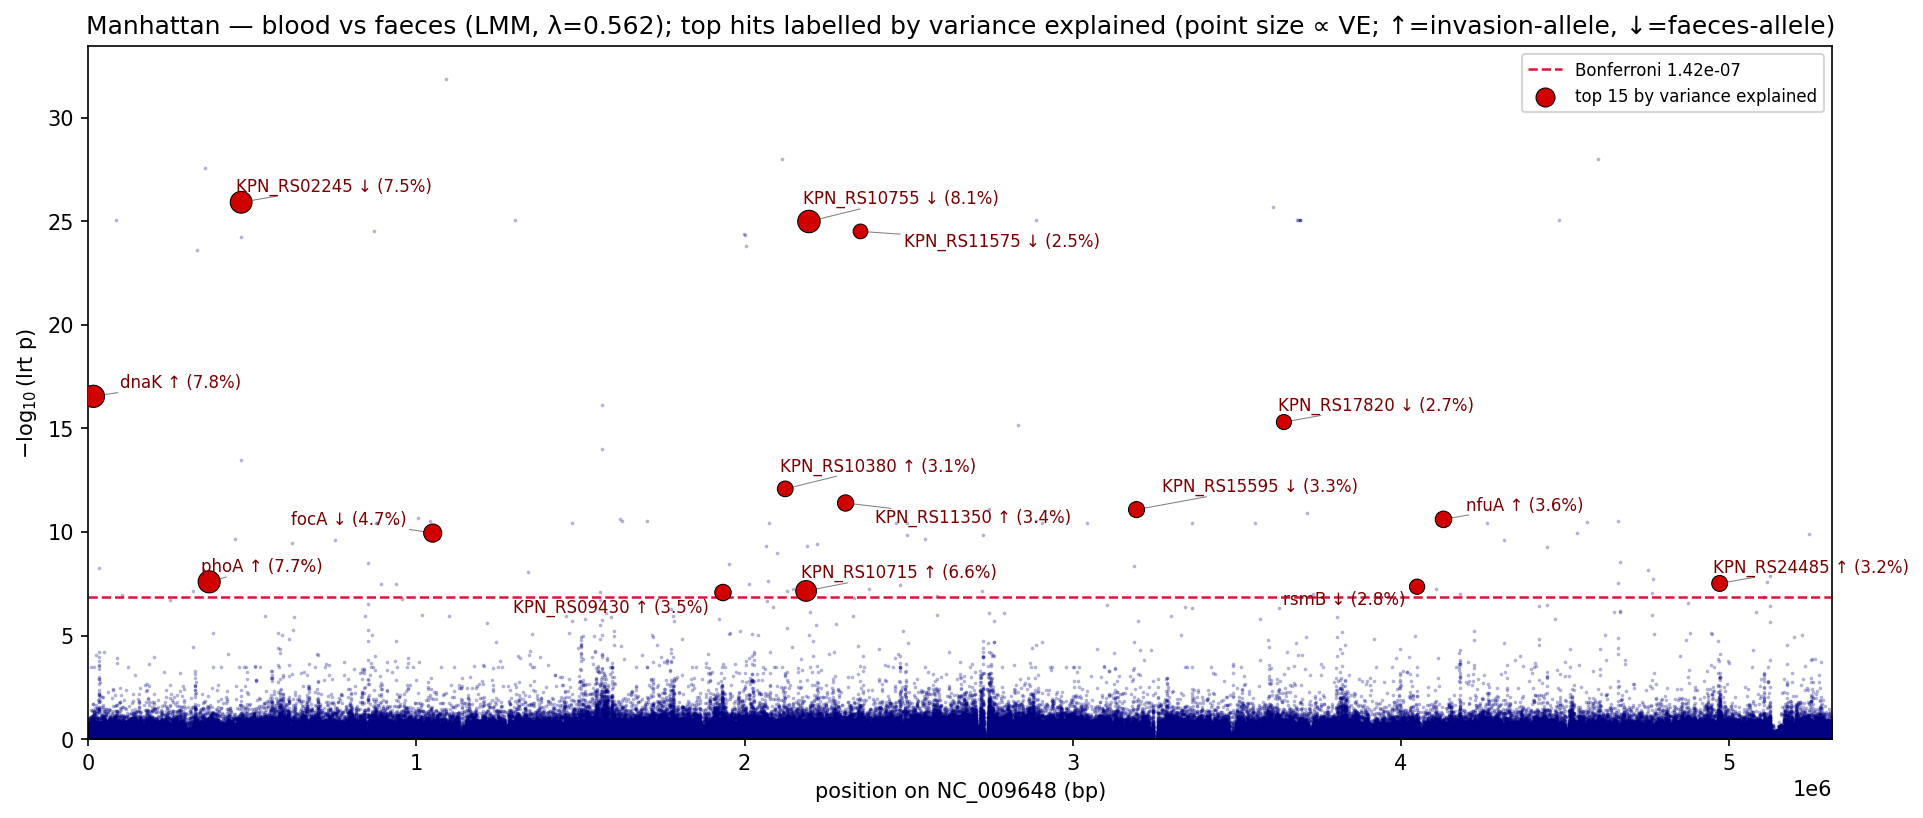
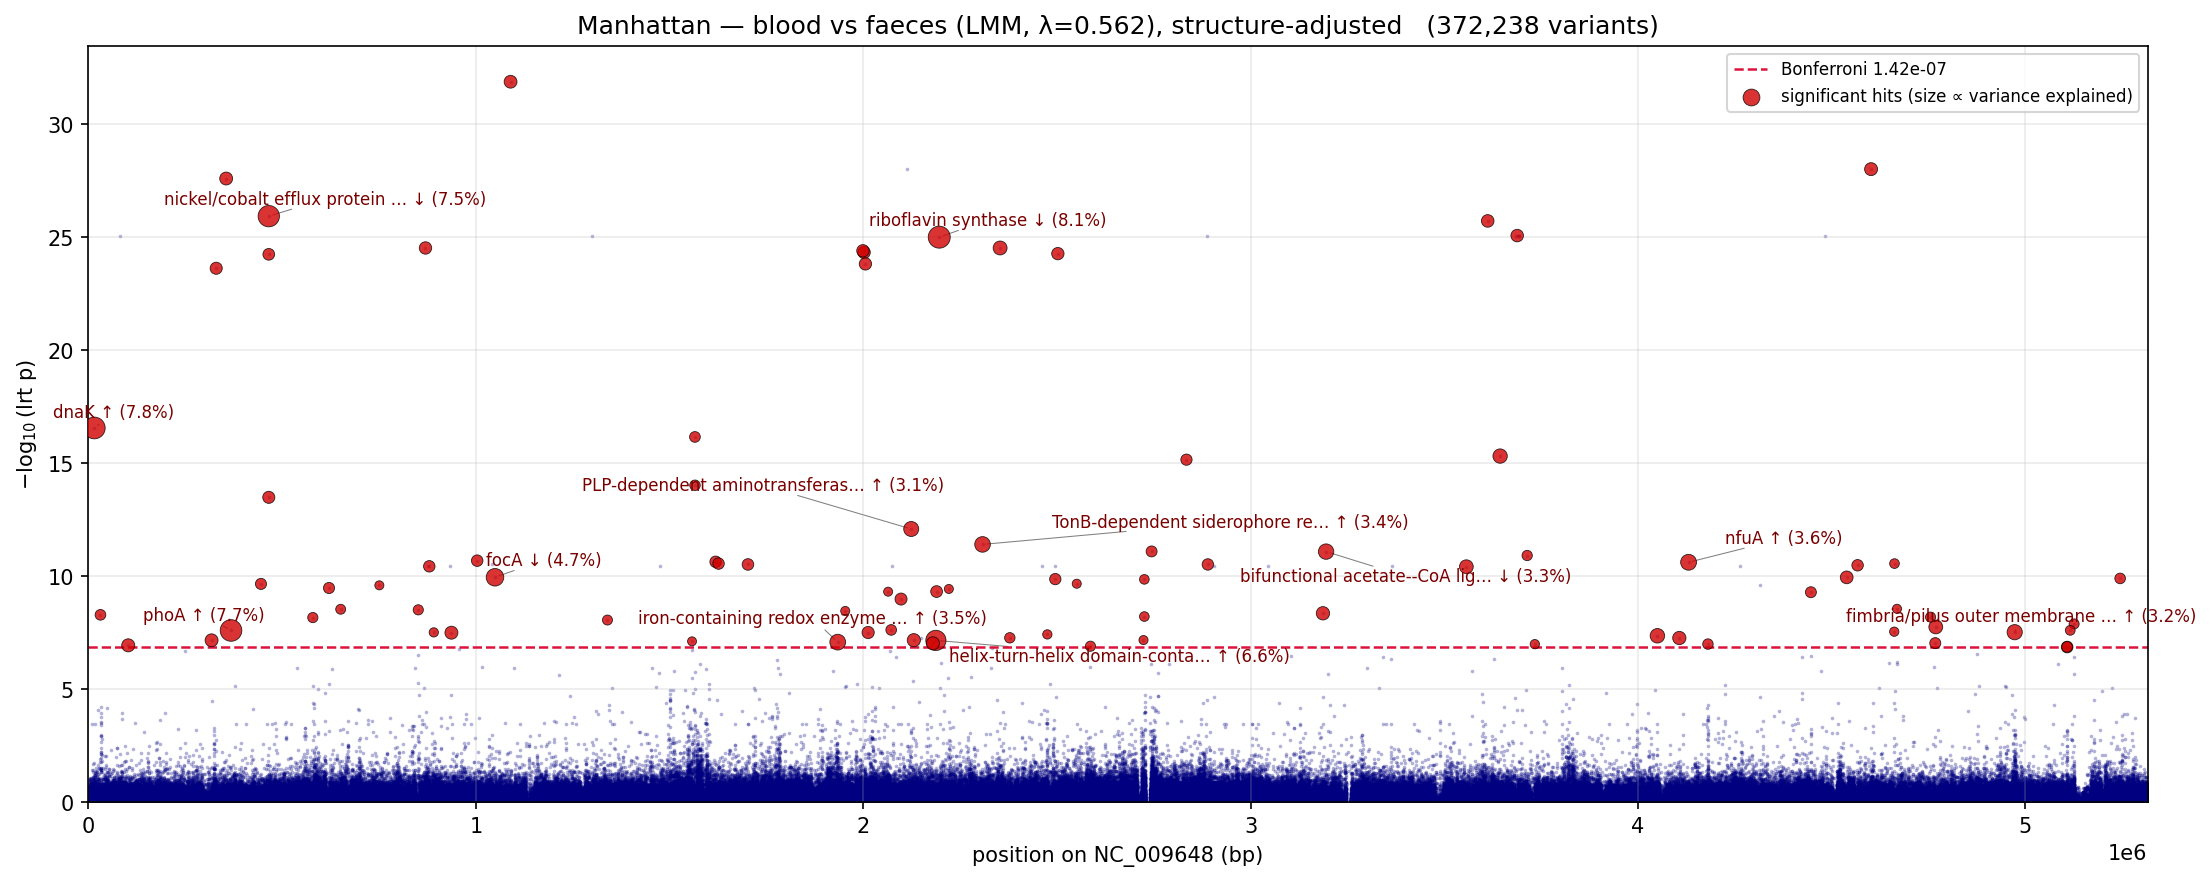
feat(bac_pyseer): Manhattan labels by gene/product name; size all hits by VE; MAF>5% labelling
Addresses two issues on the annotated Manhattan + table:
- Labels were locus tags (KPN_RS…) where a gene has no symbol. New _hit_label() falls back
  gene symbol → product description → locus tag, so labels read "riboflavin synthase",
  "TonB-dependent siderophore receptor", etc.
- Plot now draws *every* significant hit as a circle sized by variance explained, and labels
  only the top ~12 by VE among MAF>5% (rarer allele > 5%), so rare tiny-sample / lineage-bound
  markers are shown but not labelled. Adds a `maf` column to the hit table.

diff --git a/src/bac_pyseer/kleb_iso_source/pyseer_postprocess.py b/src/bac_pyseer/kleb_iso_source/pyseer_postprocess.py
@@ -143,6 +143,22 @@ def direction_from_beta(beta: float, pos_label: str = "blood (invasion)", neg_la
     return "none"
 
 
+def _hit_label(gene: object, locus_tag: object, product: object, maxlen: int = 30) -> str:
+    """Most informative short label for a hit: gene symbol > product description > locus tag.
+
+    Many genes have no gene *symbol* in the reference GFF (gene == locus_tag); the product
+    description is far more meaningful than the bare ``KPN_RS…`` tag for those.
+    """
+    gene = "" if pd.isna(gene) else str(gene)
+    locus = "" if pd.isna(locus_tag) else str(locus_tag)
+    prod = "" if pd.isna(product) else str(product)
+    if gene and gene != locus:
+        return gene
+    if prod:
+        return prod if len(prod) <= maxlen else prod[: maxlen - 1] + "…"
+    return locus or "?"
+
+
 def significant_hits(
     assoc: pd.DataFrame, threshold: float, pval_col: str = PVAL_COL,
     pos_label: str = "blood (invasion)", neg_label: str = "faeces",
@@ -167,6 +183,7 @@ def significant_hits(
     af = pd.to_numeric(hits["af"], errors="coerce") if "af" in hits.columns else pd.Series(np.nan, index=hits.index)
     beta = pd.to_numeric(hits["beta"], errors="coerce") if "beta" in hits.columns else pd.Series(np.nan, index=hits.index)
     hits["var_explained_pct"] = af * (1 - af) * beta**2 / pheno_var * 100
+    hits["maf"] = np.minimum(af, 1 - af)  # rarer allele; MAF>0.05 = neither allele a tiny sample
 
     # clonal blocks: identical (af, β, p) == one presence/absence pattern (perfect LD)
     pat_key = (af.round(6).astype(str) + "|" + beta.round(6).astype(str) + "|"
@@ -372,13 +389,16 @@ def plot_qq(pvalues: np.ndarray, lam: float, out_path: Path) -> None:
 def plot_manhattan(
     pos: np.ndarray, pvalues: np.ndarray, threshold: float, out_path: Path,
     contig: str = DEFAULT_CONTIG, contig_len: int = DEFAULT_CONTIG_LEN,
-    pair_title: str = "blood vs faeces", top_hits: pd.DataFrame | None = None,
+    pair_title: str = "blood vs faeces", hit_points: pd.DataFrame | None = None,
+    n_label: int = 12, maf_label_min: float = 0.05,
 ) -> None:
-    """−log10(structure-adjusted p) vs position, Bonferroni line; optional top-hit labels.
+    """−log10(structure-adjusted p) vs position, Bonferroni line; significant hits drawn.
 
-    ``top_hits`` (cols ``pos``, ``label``, ``var_explained_pct``, ``beta``, ``_p``) labels
-    the strongest hits **by variance explained** — point size ∝ VE, with a ``↑``/``↓`` glyph
-    for the allele direction (a minor annotation, *not* the ranking axis).
+    ``hit_points`` (cols ``pos``, ``label``, ``var_explained_pct``, ``af``, ``beta``, ``_p``)
+    draws *every* significant hit as a circle **sized by variance explained**, then labels
+    only the top ``n_label`` by VE among those with MAF > ``maf_label_min`` (so rare,
+    tiny-sample/lineage-bound markers aren't labelled). ``↑``/``↓`` glyph = allele direction,
+    a minor annotation — *not* the ranking axis.
     """
     p = pd.to_numeric(pd.Series(pvalues), errors="coerce").to_numpy()
     keep = np.isfinite(p) & (p > 0) & (pos >= 0)
@@ -387,16 +407,23 @@ def plot_manhattan(
     if threshold > 0:
         ax.axhline(-np.log10(threshold), color="crimson", ls="--", lw=1.2,
                    label=f"Bonferroni {threshold:.2e}")
-    if top_hits is not None and len(top_hits):
-        ty = -np.log10(pd.to_numeric(top_hits["_p"], errors="coerce").to_numpy())
-        ve = pd.to_numeric(top_hits["var_explained_pct"], errors="coerce").fillna(0).to_numpy()
-        ax.scatter(top_hits["pos"].to_numpy(), ty, s=ve * 12 + 20, color="#d00000",
-                   edgecolors="black", linewidths=0.5, zorder=5, label="top hits by variance explained")
+    if hit_points is not None and len(hit_points):
+        hp = hit_points.dropna(subset=["pos"]).copy()
+        hp["_y"] = -np.log10(pd.to_numeric(hp["_p"], errors="coerce"))
+        ve = pd.to_numeric(hp["var_explained_pct"], errors="coerce").fillna(0)
+        ax.scatter(hp["pos"], hp["_y"], s=ve * 12 + 15, color="#d00000", alpha=0.8,
+                   edgecolors="black", linewidths=0.4, zorder=5,
+                   label="significant hits (size ∝ variance explained)")
+        hp["_maf"] = pd.to_numeric(hp.get("maf"), errors="coerce")
+        if hp["_maf"].isna().all():  # fall back to computing MAF from af
+            afh = pd.to_numeric(hp.get("af"), errors="coerce")
+            hp["_maf"] = np.minimum(afh, 1 - afh)
+        lab = hp[hp["_maf"] > maf_label_min].sort_values("var_explained_pct", ascending=False).head(n_label)
         texts = []
-        for (_, r), yy in zip(top_hits.iterrows(), ty, strict=False):
+        for _, r in lab.iterrows():
             arrow = "↑" if (pd.notna(r.get("beta")) and float(r["beta"]) > 0) else "↓"
             texts.append(ax.annotate(f'{r["label"]} {arrow} ({float(r["var_explained_pct"]):.1f}%)',
-                         (r["pos"], yy), fontsize=8, color="#7a0000", ha="center", va="bottom", zorder=6))
+                         (r["pos"], r["_y"]), fontsize=8, color="#7a0000", ha="center", va="bottom", zorder=6))
         try:
             from adjustText import adjust_text
             adjust_text(texts, ax=ax, expand=(1.3, 1.7),
@@ -452,7 +479,7 @@ def run(
     mapped = cross_ref_virulence(mapped)
 
     # Assemble the annotated hit table: the pyseer stats + POS + the gene-mapping columns.
-    carry = [c for c in ("variant", "var_explained_pct", "af", "filter-pvalue", pval_col, "beta",
+    carry = [c for c in ("variant", "var_explained_pct", "maf", "af", "filter-pvalue", pval_col, "beta",
                          "beta-std-err", "direction", "lineage", "variant_h2", "pattern_group",
                          "n_in_pattern", "notes") if c in hits.columns]
     annotated = pd.concat(
@@ -494,19 +521,19 @@ def run(
     #     failure here cannot lose data already on disk, and the figures can be regenerated
     #     by simply re-running this script against the saved .assoc.
     pos = variant_positions(assoc["variant"].to_numpy(), contig)
-    top_hits = pd.DataFrame()
+    hit_points = pd.DataFrame()
     if len(annotated) and "var_explained_pct" in annotated.columns:
-        th = annotated.dropna(subset=["pos"]).copy()
-        if "pattern_group" in th.columns:
-            th = th.drop_duplicates("pattern_group")            # one row per clonal pattern
-        th = th.sort_values("var_explained_pct", ascending=False).head(15)
-        th["label"] = th["gene"].where(th["gene"].notna(), th.get("locus_tag"))
-        th["_p"] = pd.to_numeric(th[pval_col], errors="coerce")
-        top_hits = th
+        hp = annotated.dropna(subset=["pos"]).copy()
+        if "pattern_group" in hp.columns:
+            hp = hp.drop_duplicates("pattern_group")            # one circle per clonal pattern
+        hp["label"] = [_hit_label(g, lt, pr) for g, lt, pr in
+                       zip(hp["gene"], hp["locus_tag"], hp["product"], strict=False)]
+        hp["_p"] = pd.to_numeric(hp[pval_col], errors="coerce")
+        hit_points = hp
     for name, draw in (
         ("QQ", lambda: plot_qq(pvals, lam, out_fig_dir / "pyseer_qq.png")),
         ("Manhattan", lambda: plot_manhattan(pos, pvals, threshold, out_fig_dir / "pyseer_manhattan.png",
-                                             contig, contig_len, pair_title, top_hits)),
+                                             contig, contig_len, pair_title, hit_points)),
     ):
         try:
             draw()

diff --git a/src/bac_pyseer/docs/visualise/lmm_model/README.md b/src/bac_pyseer/docs/visualise/lmm_model/README.md
@@ -82,13 +82,14 @@ effects, not a few dominant genes, with the accessory iron/capsule machinery unt
 
 - `qq_lmm_bigsl_af1.png` — QQ of structure-adjusted p (λ=0.562; controlled bulk + tail).
 - `manhattan_lmm_bigsl_af1.png` — Manhattan on NC_009648, Bonferroni line.
-- `manhattan_lmm_bigsl_af1_annotated.png` — Manhattan with the **top hits labelled by
-  variance explained** (point size ∝ VE; `↑`/`↓` = which allele, a minor glyph — *not* the
-  ranking axis).
+- `manhattan_lmm_bigsl_af1_annotated.png` — *every* significant hit drawn as a circle
+  **sized by variance explained**; the top ~12 by VE with **MAF > 5%** (so rare,
+  tiny-sample/lineage-bound markers aren't labelled) labelled by gene symbol → product
+  description → locus tag. `↑`/`↓` = allele direction, a minor glyph — *not* the ranking axis.
 - `blood_vs_faeces_hits_annotated.tsv` — the **110 significant hits**, gene-mapped +
-  virulence cross-ref, now **ranked by `var_explained_pct`** with `pattern_group` /
-  `n_in_pattern` flagging the clonal blocks (`direction` is an attribute, not the sort key).
-  This is the result we keep.
+  virulence cross-ref, **ranked by `var_explained_pct`**; carries `maf` (rarer allele;
+  filter `maf > 0.05` for the robust set) and `pattern_group` / `n_in_pattern` flagging the
+  clonal blocks. `direction` is an attribute, not the sort key. This is the result we keep.
 - `hits_by_direction_then_lineage.tsv` — *superseded* by the variance-explained ranking
   above; kept only as the earlier direction-first view.
 - `blood_vs_faeces_gwas_summary.json` — λ, thresholds, counts.
